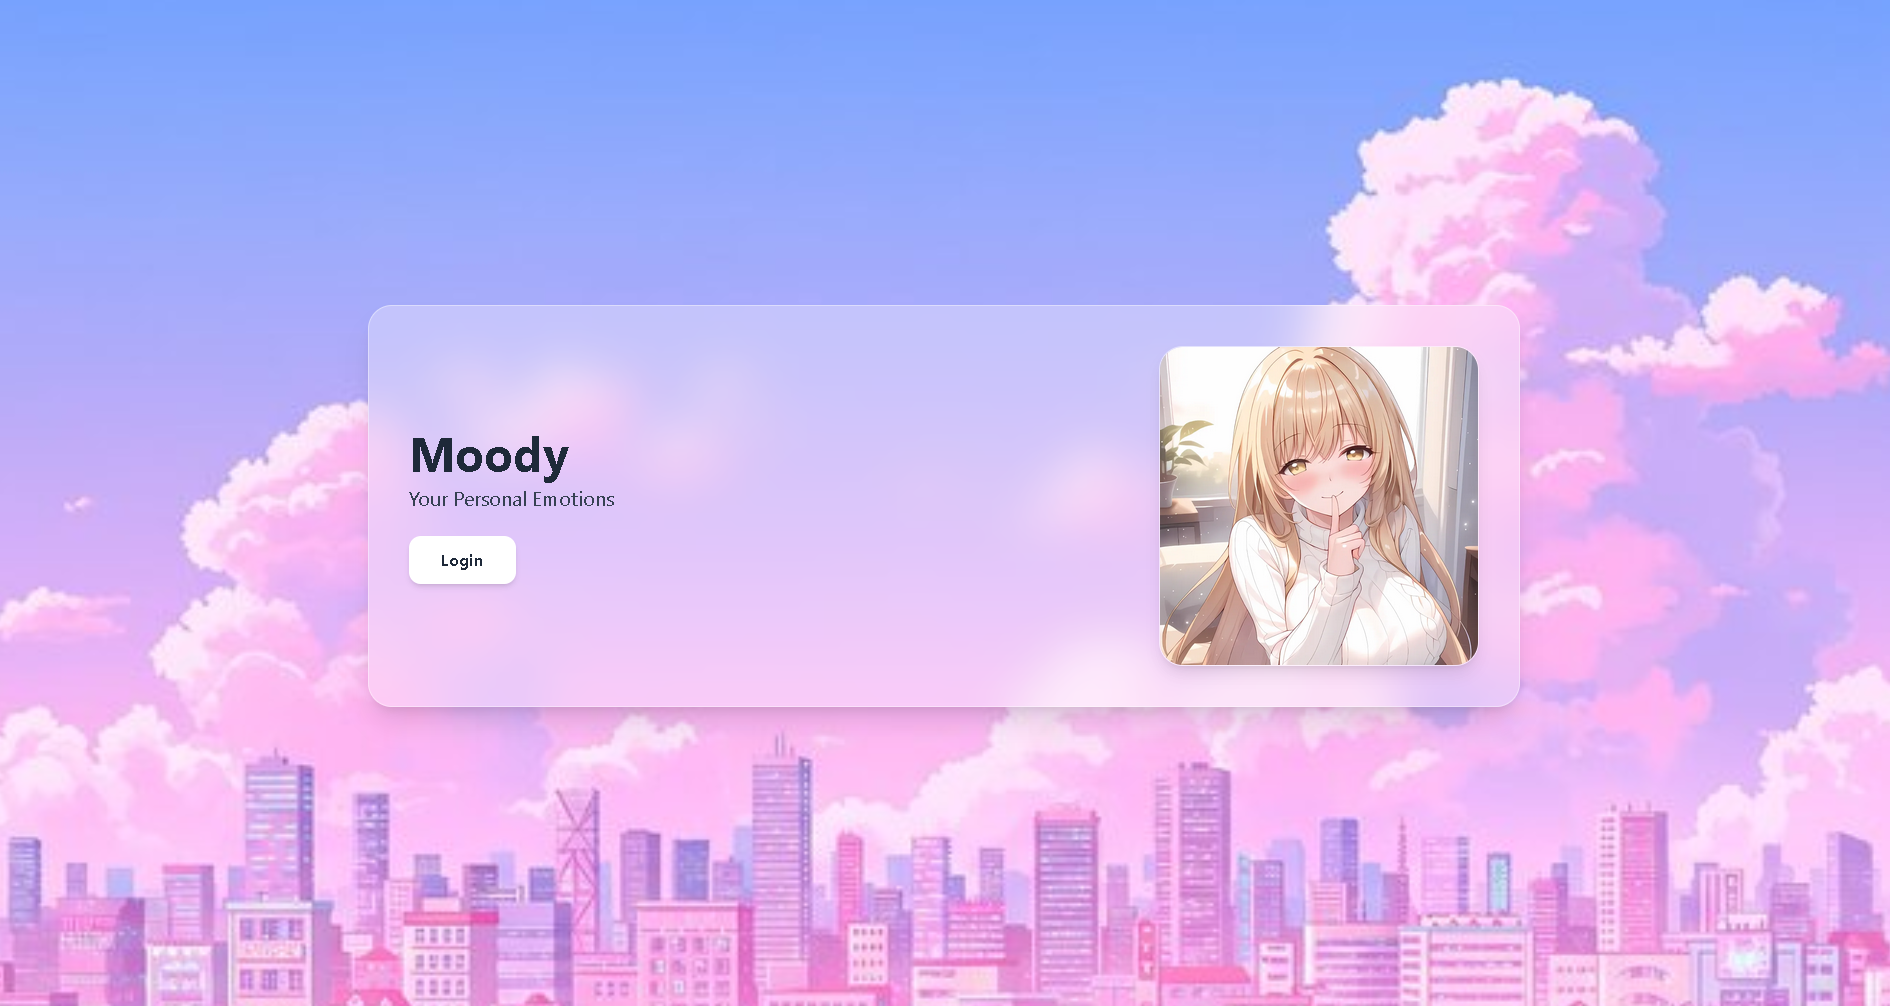
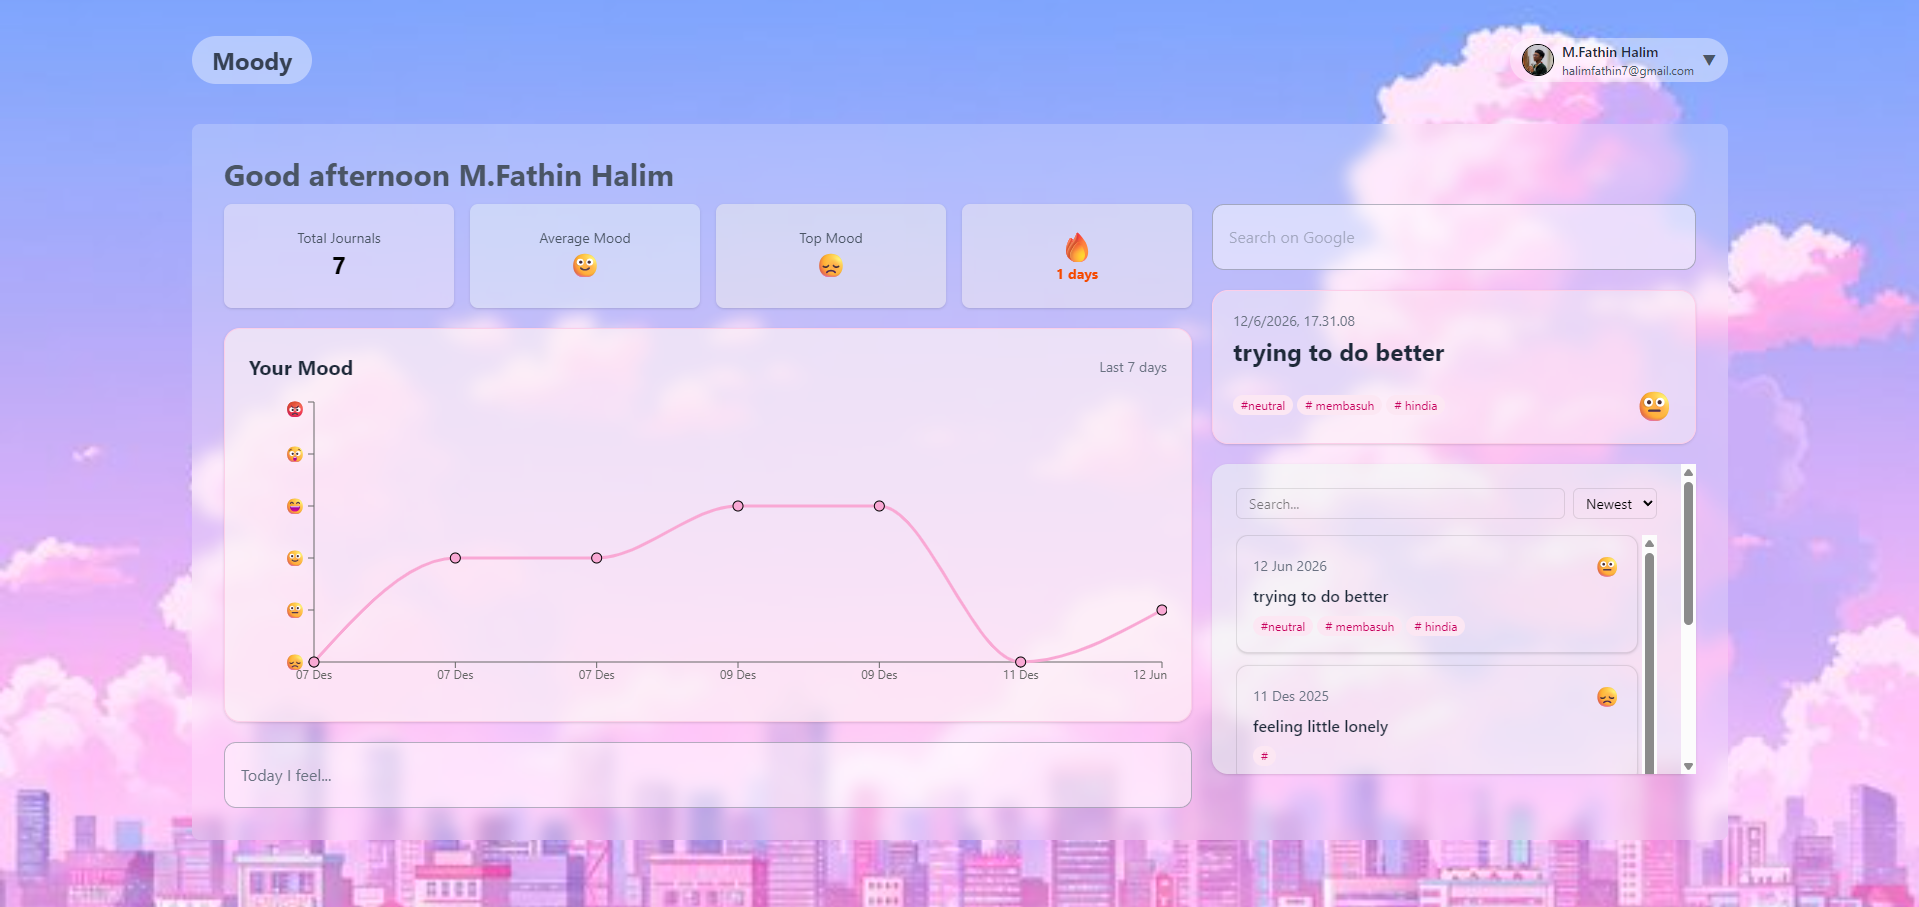
add new project

diff --git a/src/Portofolio.jsx b/src/Portofolio.jsx
@@ -102,6 +102,7 @@ function Portfolio({ max }) {
       develop: ["Website", "Mobile"],
       date: "June 2023",
     },
+
     {
       image: "/Screenshot/Screenshot%20(2).png",
       title: "Yunation",
@@ -111,15 +112,7 @@ function Portfolio({ max }) {
       develop: ["Website"],
       date: "June 2024",
     },
-    {
-      image: "/Screenshot/Screenshot%20(10).png",
-      title: "Play Review",
-      desc: "Analysis Hundred of Reviews with AI",
-      link: "https://playreview.vercel.app/",
-      framework: ["Python", "Bootstrap", "WhatsApp Bot"],
-      develop: ["Website"],
-      date: "December 2025",
-    },
+
     {
       image: "/Screenshot/Screenshot%20(3).png",
       title: "Mahiru is Fathin's Wife",
@@ -129,6 +122,25 @@ function Portfolio({ max }) {
       develop: ["Website"],
       date: "September 2023",
     },
+     {
+      image: "/Screenshot/Screenshot%20(17).png",
+      title: "Ishimi is Fathin's Wife",
+      desc: "Ishimi Yokoyama is Fathin's Wife.",
+      link: "https://ishimi-yokoyama.vercel.app/",
+      framework: ["Next.js", "TailwindCSS"],
+      develop: ["Website"],
+      date: "April 2026",
+    },
+            {
+      image:
+        "https://github.com/ramadityo/hexagrab/raw/main/assets/20250218_070002_hexagrab.png",
+      title: "Contribute to Hexagrab",
+      desc: "A color picker tool that helps extract colors from images.",
+      link: "https://hexagrab.vercel.app/",
+      framework: ["NextJS", "TailwindCSS"],
+      develop: ["Website"],
+      date: "February 2025",
+    },
     {
       image: "/Screenshot/Screenshot%20(4).png",
       title: "Cardcozy",
@@ -137,6 +149,34 @@ function Portfolio({ max }) {
       framework: ["NextJS", "AI", "Bootstrap"],
       develop: ["Website"],
       date: "March 2025",
+    },
+        {
+      image: "/Screenshot/Screenshot%20(14).png",
+
+      title: "Nantangin",
+      desc: "An all in one website for explore indonesian competitions",
+      link: "https://nantangin.fathincoding.workers.dev/",
+      framework: ["Tailwind", "NextJS"],
+      develop: ["Website"],
+      date: "May 2026",
+    },
+        {
+      image: "/Screenshot/Screenshot%20(16).png",
+      title: "DevTycoon",
+      desc: "for GDG - #JuaraVibeCoding, DevTycoon is a (fun) scalability platform that allows you to optimize the infrastructure of a global (in this web) ecosystem/",
+      link: "https://devtycoon-game-212836286422.asia-southeast2.run.app/",
+      framework: ["ViteJS", "TailwindCSS", "Firebase", "#JuaraVibeCoding"],
+      develop: ["Website"],
+      date: "May 2026",
+    },
+        {
+      image: "/Screenshot/Screenshot%20(12).png",
+      title: "Moody",
+      desc: "Track your moodswing",
+      link: "https://moody-hours.vercel.app/",
+      framework: ["React", "Bootstrap"],
+      develop: ["Website"],
+      date: "September 2025",
     },
     {
       image:
@@ -158,15 +198,7 @@ function Portfolio({ max }) {
       develop: ["Website", "Game"],
       date: "June 2025",
     },
-    {
-      image: "/Screenshot/Screenshot%20(12).png",
-      title: "Moody",
-      desc: "Track your moodswing",
-      link: "https://moody-hours.vercel.app/",
-      framework: ["React", "Bootstrap"],
-      develop: ["Website"],
-      date: "September 2025",
-    },
+
     {
       image: "/Screenshot/Screenshot%20(13).png",
       title: "Learn JS",
@@ -187,26 +219,6 @@ function Portfolio({ max }) {
       date: "June 2025",
     },
     {
-      image:
-        "https://github.com/ramadityo/hexagrab/raw/main/assets/20250218_070002_hexagrab.png",
-      title: "Contribute to Hexagrab",
-      desc: "A color picker tool that helps extract colors from images.",
-      link: "https://hexagrab.vercel.app/",
-      framework: ["NextJS", "TailwindCSS"],
-      develop: ["Website"],
-      date: "February 2025",
-    },
-    {
-      image: "/Screenshot/Screenshot%20(14).png",
-
-      title: "Nantangin",
-      desc: "An all in one website for explore indonesian competitions",
-      link: "https://nantangin.fathincoding.workers.dev/",
-      framework: ["Tailwind", "NextJS"],
-      develop: ["Website"],
-      date: "May 2026",
-    },
-    {
       image: "/Screenshot/Screenshot%20(15).png",
       title: "Goresan",
       desc: "Goresan adalah platform untuk berbagi karya seni, tulisan, dan inspirasi.",
@@ -215,14 +227,15 @@ function Portfolio({ max }) {
       develop: ["Website"],
       date: "June 2026",
     },
-    {
-      image: "/Screenshot/Screenshot%20(16).png",
-      title: "DevTycoon",
-      desc: "for GDG - #JuaraVibeCoding, DevTycoon is a (fun) scalability platform that allows you to optimize the infrastructure of a global (in this web) ecosystem/",
-      link: "https://devtycoon-game-212836286422.asia-southeast2.run.app/",
-      framework: ["ViteJS", "TailwindCSS", "Firebase", "#JuaraVibeCoding"],
+
+        {
+      image: "/Screenshot/Screenshot%20(10).png",
+      title: "Play Review",
+      desc: "Analysis Hundred of Reviews with AI",
+      link: "https://playreview.vercel.app/",
+      framework: ["Python", "Bootstrap", "WhatsApp Bot"],
       develop: ["Website"],
-      date: "May 2026",
+      date: "December 2025",
     },
   ];
 

diff --git a/src/Screenshoot.jsx b/src/Screenshoot.jsx
@@ -1,6 +1,5 @@
-import React from "react";
+import React, { useEffect, useRef, useState } from "react";
 
-// Urutan asli
 const images = [
   "/Screenshot/Screenshot (1).png",
   "/Screenshot/Screenshot (7).png",
@@ -15,38 +14,74 @@ const images = [
   "/Screenshot/Screenshot (11).png",
   "/Screenshot/Screenshot (12).png",
   "/Screenshot/Screenshot (13).png",
+  "/Screenshot/Screenshot (14).png",
+  "/Screenshot/Screenshot (15).png",
+  "/Screenshot/Screenshot (16).png",
+  "/Screenshot/Screenshot (17).png",
 ];
 
 const lineOrders = [
-  [images[5], images[2], images[4], images[6]],
-  images,
-  [images[7], images[3], images[5], images[4]],
-  [images[2], images[1], images[4], images[6]],
+  images.slice(0, 4),
+  images.slice(8, 16),
+  images.slice(4, 8),
 ];
 
 const Screenshoot = () => {
+  const sectionRef = useRef(null);
+  const [isInView, setIsInView] = useState(false);
+
+  useEffect(() => {
+    const observer = new IntersectionObserver(
+      ([entry]) => {
+        // Mengubah state berdasarkan apakah komponen terlihat di layar
+        setIsInView(entry.isIntersecting);
+      },
+      { 
+        root: null, 
+        threshold: 0.05 // Animasi start/resume ketika minimal 5% bagian komponen masuk layar
+      }
+    );
+
+    if (sectionRef.current) {
+      observer.observe(sectionRef.current);
+    }
+
+    return () => {
+      if (sectionRef.current) {
+        observer.unobserve(sectionRef.current);
+      }
+    };
+  }, []);
+
   return (
-    <section className="bg-black rounded-t-2xl h-32 md:h-60 overflow-hidden">
-      <div className="rotate-[10deg] -mt-64 space-y-3 -ml-5">
+    <section 
+      ref={sectionRef} 
+      className="relative overflow-hidden bg-black rounded-t-3xl max-h-[550px]"
+    >
+      <div className="rotate-[-6deg] space-y-4">
         {lineOrders.map((lineImages, lineIndex) => {
           const loopedImages = [...lineImages, ...lineImages];
 
           return (
             <div
               key={lineIndex}
-              className={`flex flex-row gap-3 whitespace-nowrap ${
-                lineIndex % 2 === 0 ? "-ml-32" : ""
-              } ${
+              className={`flex gap-4 w-max ${
                 lineIndex % 2 === 0 ? "animate-scroll" : "animate-scrollReverse"
-              }`}
+              } ${!isInView ? "animation-paused" : ""}`} // Tambah class pause jika tidak di layar
             >
               {loopedImages.map((src, index) => (
-                <img
+                <div
                   key={`${lineIndex}-${index}`}
-                  src={src}
-                  alt={`Work ${lineIndex}-${index}`}
-                  className="h-[12vw] min-h-[135px] border border-neutral-400/50 w-auto object-cover"
-                />
+                  className="shrink-0 overflow-hidden"
+                >
+                  <img
+                    src={src}
+                    alt={`Screenshot ${index + 1}`}
+                    loading="lazy"
+                    decoding="async"
+                    className="h-[240px] w-auto object-cover transition-transform duration-500"
+                  />
+                </div>
               ))}
             </div>
           );

diff --git a/src/Intro.jsx b/src/Intro.jsx
@@ -17,34 +17,55 @@ function Intro() {
   return (
     <>
       <div id="projects" div className="py-16 px-2 lg:px-32">
-        <motion.div
-          transition={{
-            duration: 2.5,
-            repeat: Infinity,
-            repeatType: "mirror",
-            ease: "easeInOut",
-          }}
-          data-aos="fade-right"
-          className="bg-[#edf6ea] pb-5 lg:max-h-[75vh] border-black/40 rounded-3xl shadow-md overflow-hidden mx-auto"
-        >
-          <Screenshoot />
-          <div className="px-2 md:px-6 pt-8 md:pt-6 text-center">
-            <h2 className="text-2xl md:text-3xl font-bold leading-snug">
-              My Journey of Programming
-            </h2>
-            <p className="opacity-50 mb-5 mt-2 text-lg">
-              A collection of apps, experiments, and challenges I've built over
-              time.
-            </p>
-            <button
-              onClick={() => setShowContact((prev) => !prev)}
-              className="group relative overflow-hidden bg-black text-[#edf6ea] hover:bg-transparent hover:text-black border dark:border-black dark:hover:bg-transparent px-5 mt-0 py-3 rounded-full transition-all duration-300 hover:-translate-y-1"
-            >
-              <span className="absolute -top-5 left-1/2 w-32 h-32 z-100 -translate-x-1/2 scale-0 opacity-0 group-hover:scale-100 group-hover:opacity-100 transition-all duration-700 pointer-events-none sparkle" />
-              Check Now
-            </button>
-          </div>
-        </motion.div>
+       <motion.div
+  animate={{
+    y: [0, -8, 0],
+  }}
+  data-aos="fade-right"
+  className="
+    bg-[#edf6ea]
+    rounded-3xl
+    
+    overflow-hidden
+    mx-auto
+  "
+>
+  <Screenshoot />
+
+  <div className="px-4 md:px-8 py-8 md:py-10 text-center">
+    <h2 className="text-2xl md:text-4xl font-bold">
+      My Journey of Programming
+    </h2>
+
+    <p className="opacity-60 mt-3 mb-8 text-base md:text-lg max-w-2xl mx-auto">
+      A collection of apps, experiments, and challenges I've built over time.
+    </p>
+
+    <button
+      onClick={() => setShowContact((prev) => !prev)}
+      className="
+        group
+        relative
+        overflow-hidden
+        bg-black
+        text-[#edf6ea]
+        border
+        border-black
+        px-6
+        py-3
+        rounded-full
+        transition-all
+        duration-300
+        hover:bg-transparent
+        hover:text-black
+        hover:-translate-y-1
+      "
+    >
+      <span className="absolute -top-5 left-1/2 w-32 h-32 -translate-x-1/2 scale-0 opacity-0 group-hover:scale-100 group-hover:opacity-100 transition-all duration-700 pointer-events-none sparkle" />
+      Check Now
+    </button>
+  </div>
+</motion.div>
       </div>
       {showContact && (
         <section className="fixed inset-0 flex items-center justify-center z-[9999] bg-black/30">

diff --git a/src/index.css b/src/index.css
@@ -35,3 +35,34 @@ body {
 .overflow-x-auto::-webkit-scrollbar-thumb:hover {
     background: #555;
 }
+
+@keyframes scroll {
+  from {
+    transform: translateX(0);
+  }
+  to {
+    transform: translateX(-50%);
+  }
+}
+
+@keyframes scrollReverse {
+  from {
+    transform: translateX(-50%);
+  }
+  to {
+    transform: translateX(0);
+  }
+}
+
+.animate-scroll {
+  animation: scroll 35s linear infinite;
+}
+
+.animate-scrollReverse {
+  animation: scrollReverse 35s linear infinite;
+}
+
+/* Tambahkan ini untuk nge-pause animasi */
+.animation-paused {
+  animation-play-state: paused !important;
+}
